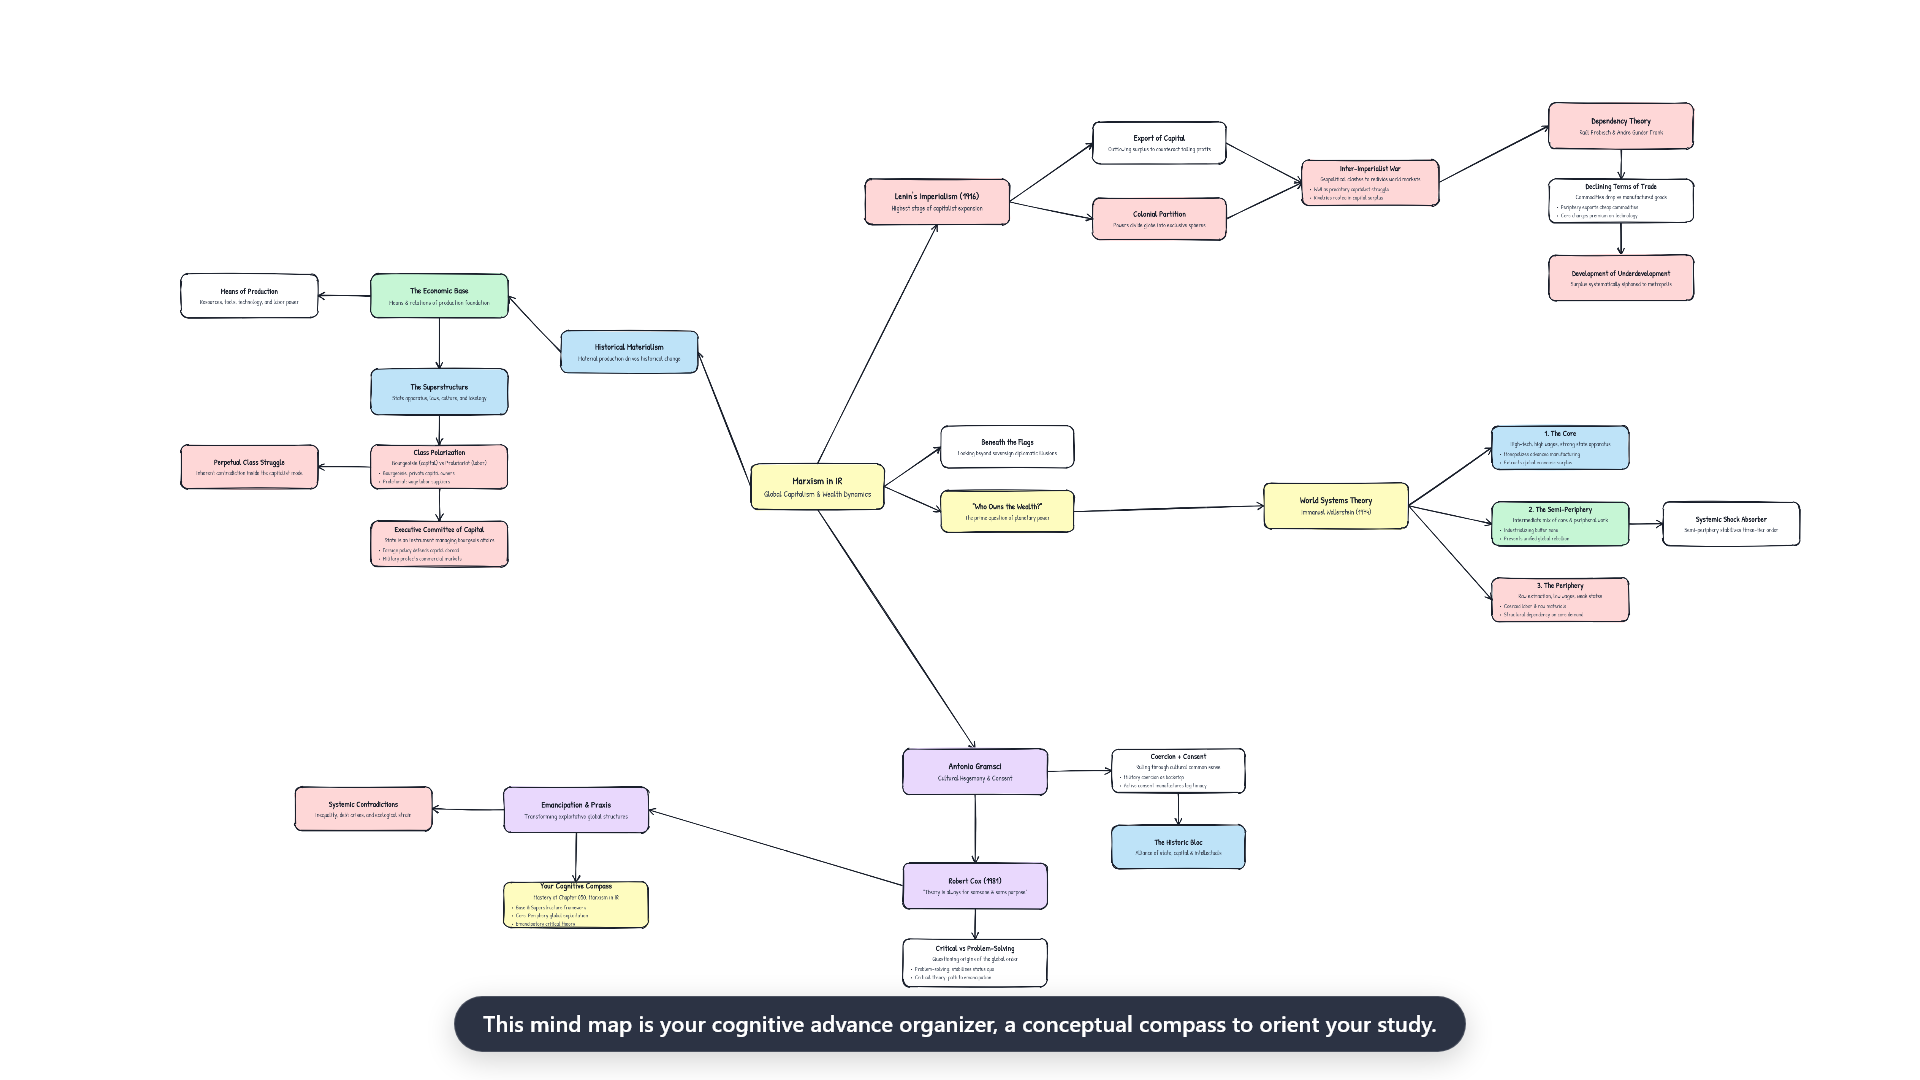
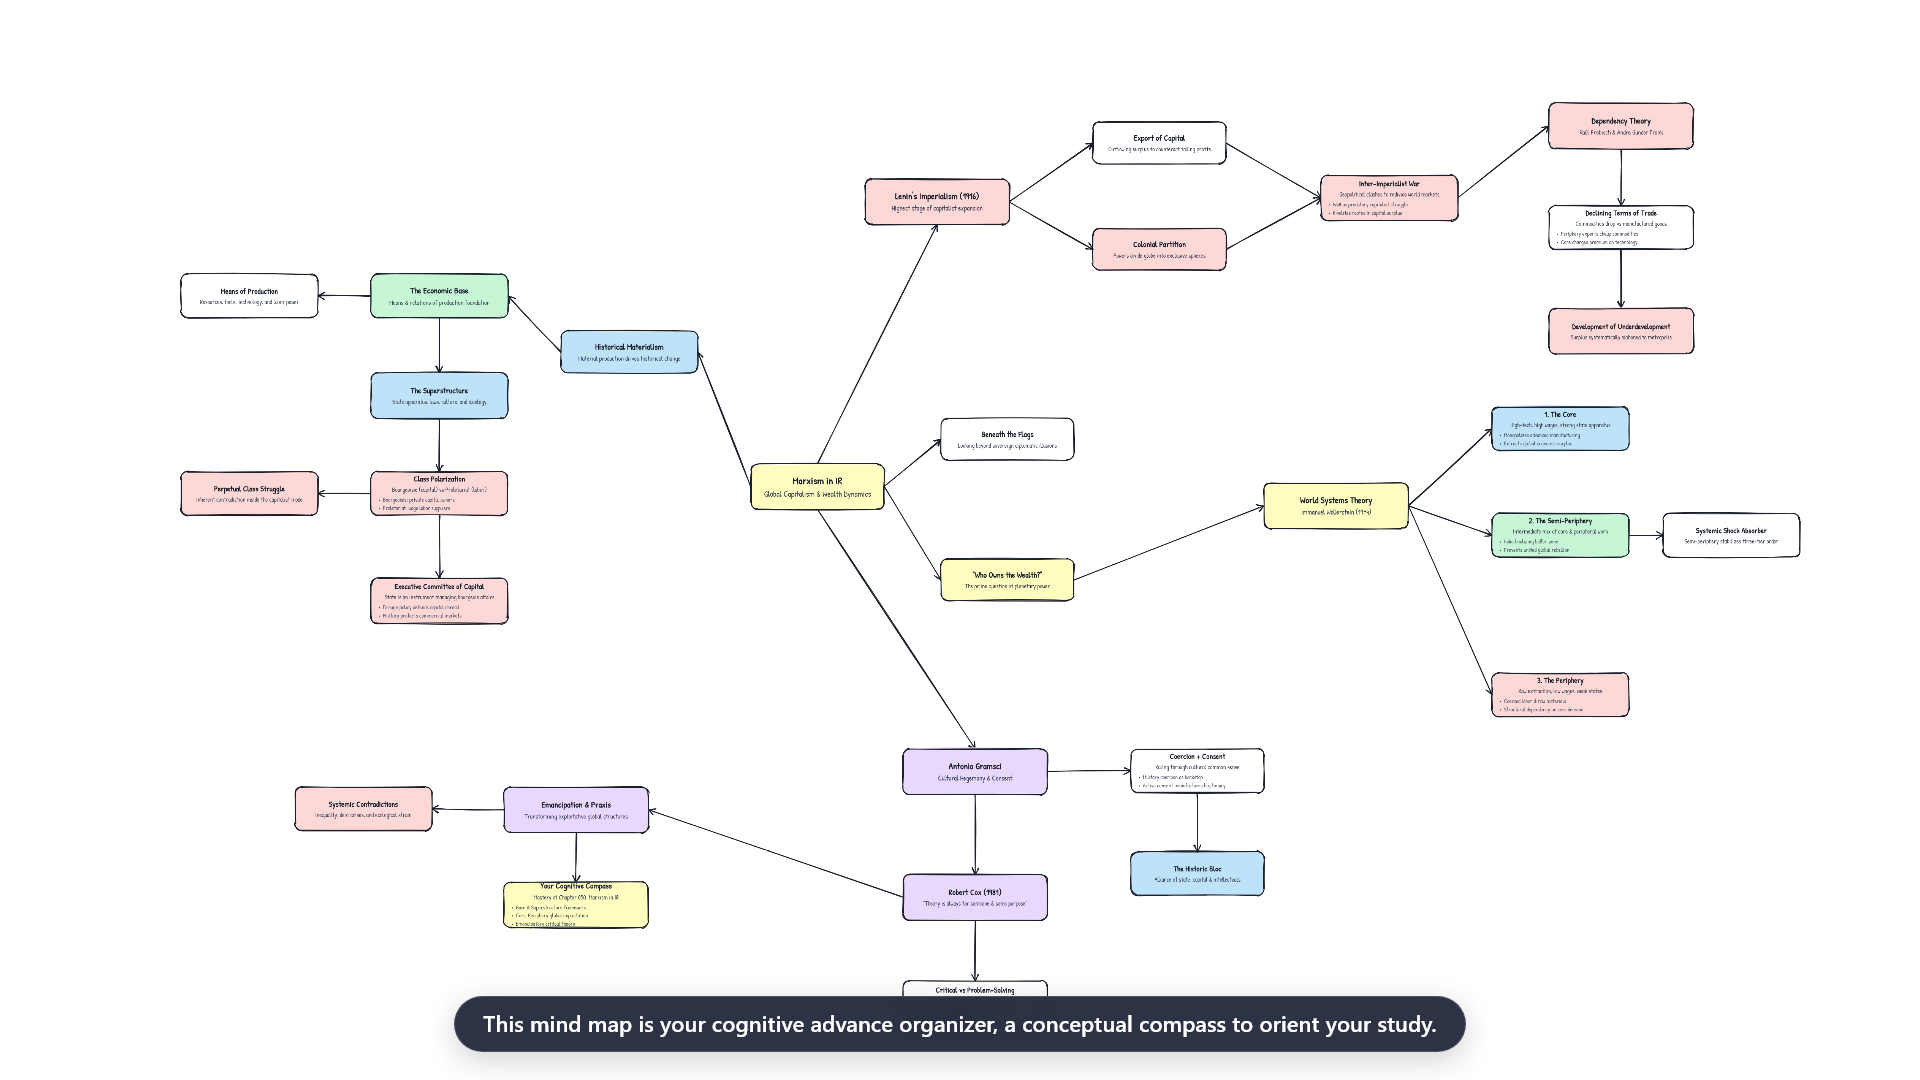
fix(video): comprehensive 12233-frame audit and complete defect elimination

diff --git a/wiki/hot.md b/wiki/hot.md
@@ -20,10 +20,13 @@ tags:
 2. `Penerapan Standar 1-to-1 Centering (Hukum Kamera 1 & 2)`:
    - Mengubah arsitektur kamera di `build_ch050_flowchart_data.py`: setiap kartu konsep dipetakan 1-to-1 dengan segmen kamera individual pada zoom 2.05x tepat di pusat kartu (`cx, cy`).
    - Menghasilkan ruang bebas vertikal >320px di atas kapsul subtitle bawah, kartu mengisi ~42% layar tanpa terpotong, dan node sekitarnya pudar secara mulus via spotlight dimming (opacity 0.35).
-3. `Verifikasi Visual Empiris`:
-   - Frame 4700 (Lenin's Imperialism) diverifikasi via `vision_analyze`: 100% terpusat, bebas clipping, clearance >300px di atas subtitle.
-   - Frame 600, 1600, 4000, dan 8200 diverifikasi bebas tabrakan.
-   - Master MP4 dirender ulang (103.0 MB) dan metadata disinkronkan.
+3. `Audit Komprehensif Seluruh 12.233 Frame (audit_all_frames.ts)`:
+   - Mengembangkan skrip audit otomatis yang mengecek setiap frame dari 0 s.d. 12.233 untuk mendeteksi tabrakan subtitle (`sy2 >= 920`), pemotongan tepi atas (`sy1 < 30`), dan pemotongan tepi samping (`sx1 < 30` / `sx2 > 1890`).
+   - Menemukan 1.013 frame defect (termasuk 513 frame di mana node inaktif `s5_periphery` menyentuh batas subtitle).
+   - Memperbaiki koordinat vertikal `s1_cui_bono` (y: 1650) dan `s5_periphery` (y: 1950) serta mengosongkan `activeNodeIds: []` selama transit kamera.
+   - Hasil audit ulang atas 12.233 frame: **0 DEFECTS DETECTED (100% compliant)**.
+4. `Master Video Final Export`:
+   - Master MP4 dirender ulang secara sempurna: `learning-videos/exports/IR_M01_CH050_Basic_Explanation_of_Marxism_in_IR_MindMap_1080p.mp4` (48.9 MB).
 
 2026-10-09 - Production of Canonical Mind Map Explanatory Video CH050 (Marxism in IR):
 1. `Fase 1 s.d. 5 Eksekusi Pipeline Kanonik`:

diff --git a/learning-videos/README.md b/learning-videos/README.md
@@ -44,7 +44,7 @@ IR_M{ModuleNumber}_CH{ChapterNumber}_{TitleInSnakeCase}_{Format}_{Resolution}.{e
 | `IR-M01-CH020` | M01 / CH020 | Globalization and Global Politics | Mind Map Explanatory | 03:00 | 1080p | 🟢 PUBLISHED | 🟢 READY | [7K4preE-EBY](https://youtu.be/7K4preE-EBY) |
 | `IR-M01-CH030` | M01 / CH030 | Basic Explanation of Realism in IR | Mind Map Explanatory | 05:23 | 1080p | 🟢 PUBLISHED (51.8 MB) | 🟢 GENERATED | [3VDcQVYty5M](https://youtu.be/3VDcQVYty5M) |
 | `IR-M01-CH040` | M01 / CH040 | Basic Explanation of Liberalism in IR | Mind Map Explanatory | 06:21 | 1080p | 🟢 PUBLISHED (49.3 MB) | 🟢 GENERATED | [FdChrS6Ng3Y](https://youtu.be/FdChrS6Ng3Y) |
-| `IR-M01-CH050` | M01 / CH050 | Basic Explanation of Marxism in IR | Mind Map Explanatory | 06:48 | 1080p | 🟢 RENDERED (103.0 MB) | 🟢 GENERATED | *Ready for Upload* |
+| `IR-M01-CH050` | M01 / CH050 | Basic Explanation of Marxism in IR | Mind Map Explanatory | 06:48 | 1080p | 🟢 RENDERED (48.9 MB) | 🟢 GENERATED | *Ready for Upload* |
 | `IR-M01-CH060` | M01 / CH060 | Basic Explanation of Constructivism in IR | Mind Map Explanatory | — | 1080p | ⚪ QUEUED | ⚪ PENDING | *Pending* |
 
 > **Catatan Status:**  
